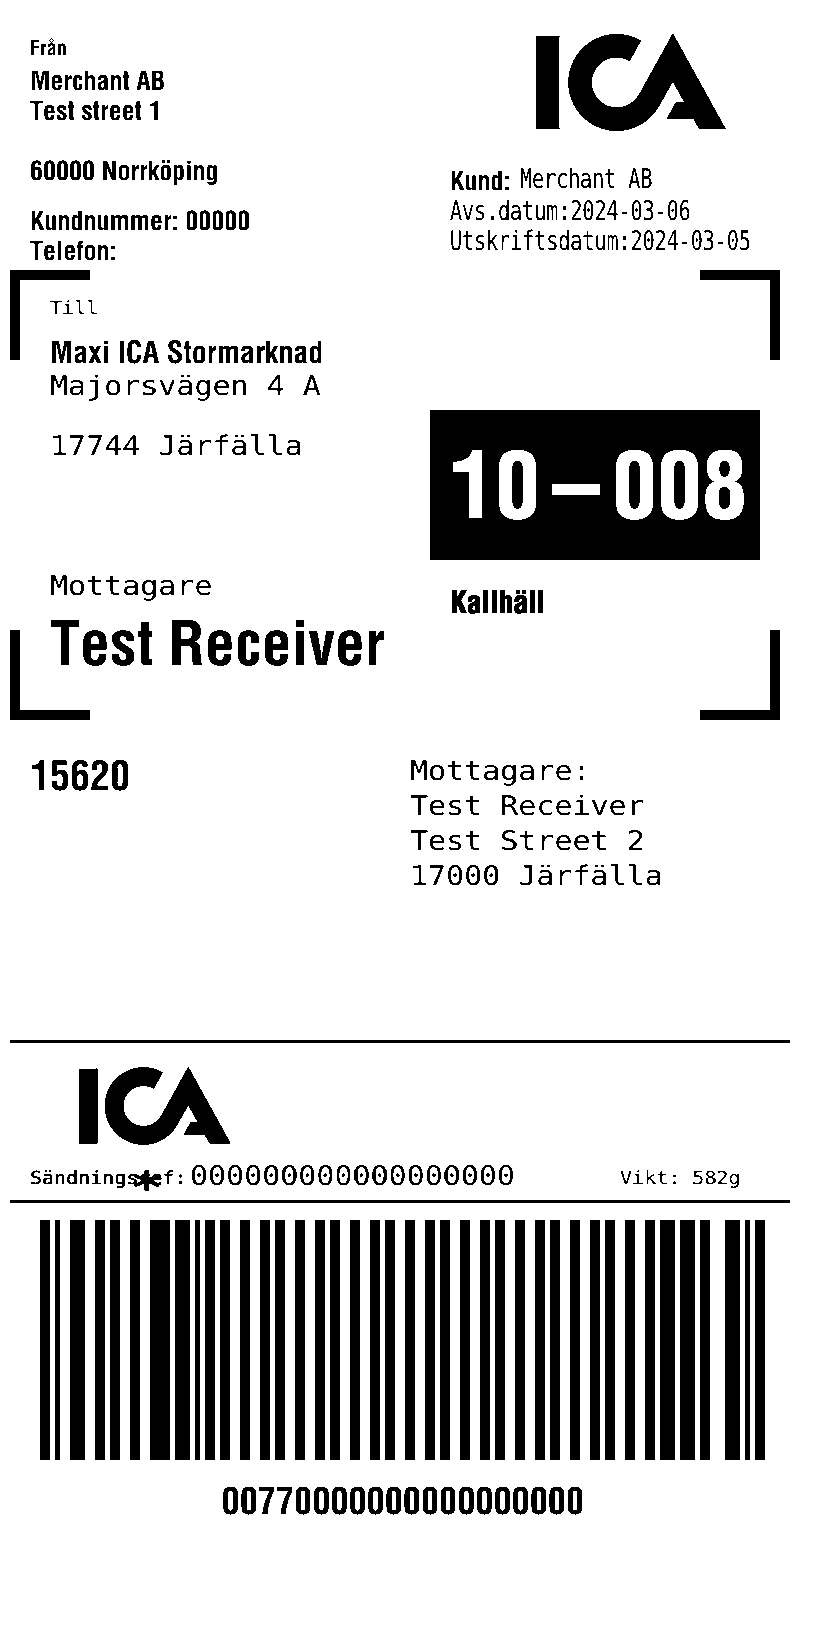
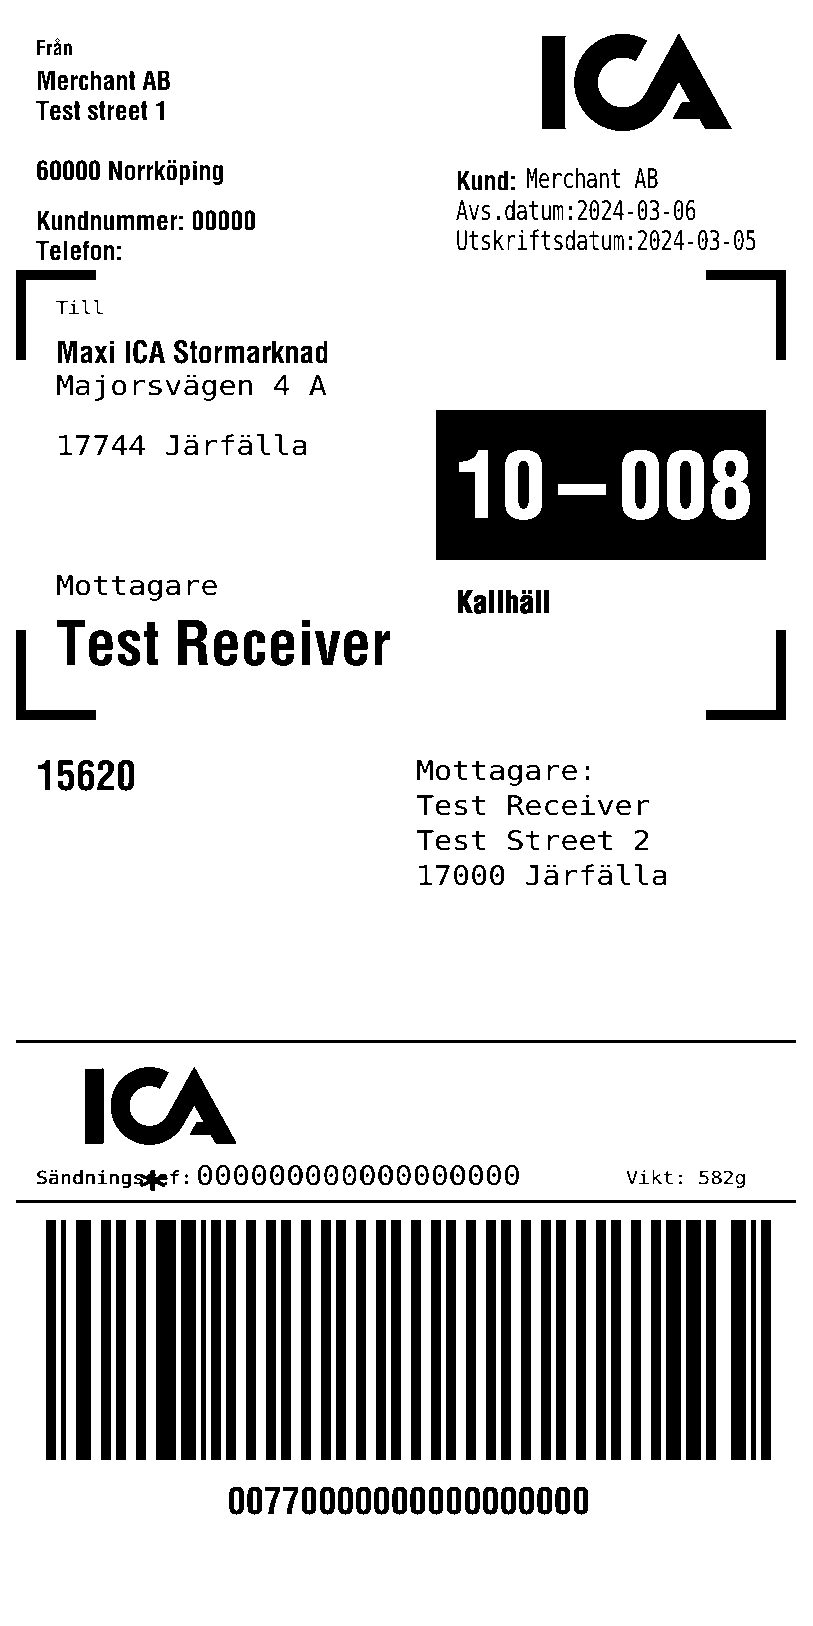
Adjust barcodes typeset position + use total bytes instead of data bytes

diff --git a/drawer.go b/drawer.go
@@ -46,10 +46,15 @@ func (d *Drawer) DrawLabelAsPng(label elements.LabelInfo, output io.Writer, opti
 	heightMm := options.LabelHeightMm
 	dpmm := options.Dpmm
 
-	imageWidth := math.Ceil(widthMm * float64(dpmm))
-	imageHeight := math.Ceil(heightMm * float64(dpmm))
+	labelWidth := int(math.Ceil(widthMm * float64(dpmm)))
+	imageWidth := labelWidth
+	if label.PrintWidth > 0 {
+		imageWidth = min(labelWidth, label.PrintWidth)
+	}
 
-	gCtx := gg.NewContext(int(imageWidth), int(imageHeight))
+	imageHeight := int(math.Ceil(heightMm * float64(dpmm)))
+
+	gCtx := gg.NewContext(imageWidth, imageHeight)
 	gCtx.SetColor(images.ColorWhite)
 	gCtx.Clear()
 
@@ -62,7 +67,7 @@ func (d *Drawer) DrawLabelAsPng(label elements.LabelInfo, output io.Writer, opti
 
 		gCtx2 := gCtx
 		if reversePrint {
-			gCtx2 = gg.NewContext(int(imageWidth), int(imageHeight))
+			gCtx2 = gg.NewContext(imageWidth, imageHeight)
 		}
 
 		for _, drawer := range d.elementDrawers {
@@ -77,6 +82,18 @@ func (d *Drawer) DrawLabelAsPng(label elements.LabelInfo, output io.Writer, opti
 				return err
 			}
 		}
+	}
+
+	// If print width was less than label width
+	// Draw everything onto the new, wider image and center the content
+	if imageWidth != labelWidth {
+		imgCtx := gCtx
+		gCtx = gg.NewContext(labelWidth, imageHeight)
+		gCtx.SetColor(images.ColorWhite)
+		gCtx.Clear()
+
+		img := imgCtx.Image()
+		gCtx.DrawImage(img, (labelWidth-imageWidth)/2, 0)
 	}
 
 	return images.EncodeMonochrome(output, gCtx.Image())

diff --git a/drawers/element_drawer.go b/drawers/element_drawer.go
@@ -12,6 +12,33 @@ type ElementDrawer struct {
 	Draw func(gCtx *gg.Context, element interface{}, options DrawerOptions, state *DrawerState) error
 }
 
+func adjustImageTypeSetPosition(img image.Image, pos elements.LabelPosition, ori elements.FieldOrientation) elements.LabelPosition {
+	if !pos.CalculateFromBottom {
+		return pos
+	}
+
+	width := img.Bounds().Dx()
+	height := img.Bounds().Dy()
+
+	x := pos.X
+	y := pos.Y
+
+	switch ori {
+	case elements.FieldOrientationNormal:
+		y = max(y-height, 0)
+	case elements.FieldOrientation180:
+		x -= width
+	case elements.FieldOrientation270:
+		x = max(x-height, 0)
+		y -= width
+	}
+
+	return elements.LabelPosition{
+		X: x,
+		Y: y,
+	}
+}
+
 func rotateImage(gCtx *gg.Context, img image.Image, pos elements.LabelPosition, ori elements.FieldOrientation) {
 	width := float64(img.Bounds().Dx())
 	height := float64(img.Bounds().Dy())

diff --git a/drawers/barcode_39.go b/drawers/barcode_39.go
@@ -36,17 +36,17 @@ func NewBarcode39Drawer() *ElementDrawer {
 			}
 
 			img = images.NewScaled(img, barcode.Width, barcode.Height)
-
 			width := float64(img.Bounds().Dx())
 			height := float64(img.Bounds().Dy())
+			pos := adjustImageTypeSetPosition(img, barcode.Position, barcode.Orientation)
 
-			rotateImage(gCtx, img, barcode.Position, barcode.Orientation)
+			rotateImage(gCtx, img, pos, barcode.Orientation)
 
 			defer gCtx.Identity()
 
-			gCtx.DrawImage(img, barcode.Position.X, barcode.Position.Y)
+			gCtx.DrawImage(img, pos.X, pos.Y)
 			if barcode.Line {
-				applyLineTextToCtx(gCtx, text, barcode.Position, barcode.LineAbove, width, height)
+				applyLineTextToCtx(gCtx, text, pos, barcode.LineAbove, width, height)
 			}
 
 			return nil

diff --git a/drawers/barcode_128.go b/drawers/barcode_128.go
@@ -65,14 +65,15 @@ func NewBarcode128Drawer() *ElementDrawer {
 
 			width := float64(img.Bounds().Dx())
 			height := float64(img.Bounds().Dy())
+			pos := adjustImageTypeSetPosition(img, barcode.Position, barcode.Orientation)
 
-			rotateImage(gCtx, img, barcode.Position, barcode.Orientation)
+			rotateImage(gCtx, img, pos, barcode.Orientation)
 
 			defer gCtx.Identity()
 
-			gCtx.DrawImage(img, barcode.Position.X, barcode.Position.Y)
+			gCtx.DrawImage(img, pos.X, pos.Y)
 			if barcode.Line {
-				applyLineTextToCtx(gCtx, text, barcode.Position, barcode.LineAbove, width, height)
+				applyLineTextToCtx(gCtx, text, pos, barcode.LineAbove, width, height)
 			}
 
 			return nil

diff --git a/drawers/barcode_datamatrix.go b/drawers/barcode_datamatrix.go
@@ -58,12 +58,13 @@ func NewBarcodeDatamatrixDrawer() *ElementDrawer {
 
 			scale := max(barcode.Height, 1)
 			scaledImg := images.NewScaled(img, scale, scale)
+			pos := adjustImageTypeSetPosition(scaledImg, barcode.Position, barcode.Orientation)
 
-			rotateImage(gCtx, scaledImg, barcode.Position, barcode.Orientation)
+			rotateImage(gCtx, scaledImg, pos, barcode.Orientation)
 
 			defer gCtx.Identity()
 
-			gCtx.DrawImage(scaledImg, barcode.Position.X, barcode.Position.Y)
+			gCtx.DrawImage(scaledImg, pos.X, pos.Y)
 
 			return nil
 		},

diff --git a/parser.go b/parser.go
@@ -47,6 +47,7 @@ func NewParser() *Parser {
 			parsers.NewDownloadGraphicsParser(),
 			parsers.NewRecallGraphicsParser(),
 			parsers.NewBarcodeFieldDefaults(),
+			parsers.NewPrintWidthParser(),
 		},
 	}
 }
@@ -73,6 +74,7 @@ func (p *Parser) Parse(zplData []byte) ([]elements.LabelInfo, error) {
 			if len(resultElements) > 0 {
 				results = append(results, elements.LabelInfo{
 					DownloadFormatName: p.printer.NextDownloadFormatName,
+					PrintWidth:         p.printer.PrintWidth,
 					Elements:           resultElements,
 				})
 			}

diff --git a/parsers/print_width.go b/parsers/print_width.go
@@ -1,0 +1,26 @@
+package parsers
+
+import (
+	"strconv"
+
+	"github.com/ingridhq/zebrash/printers"
+)
+
+func NewPrintWidthParser() *CommandParser {
+	const code = "^PW"
+
+	return &CommandParser{
+		CommandCode: code,
+		Parse: func(command string, printer *printers.VirtualPrinter) (interface{}, error) {
+			parts := splitCommand(command, code, 0)
+
+			if len(parts) > 0 {
+				if v, err := strconv.Atoi(parts[0]); err == nil {
+					printer.PrintWidth = max(v, 2)
+				}
+			}
+
+			return nil, nil
+		},
+	}
+}

diff --git a/drawers/barcode_pdf417.go b/drawers/barcode_pdf417.go
@@ -21,11 +21,13 @@ func NewBarcodePdf417Drawer() *ElementDrawer {
 				return fmt.Errorf("failed to encode pdf417 barcode: %w", err)
 			}
 
-			rotateImage(gCtx, img, barcode.Position, barcode.Orientation)
+			pos := adjustImageTypeSetPosition(img, barcode.Position, barcode.Orientation)
+
+			rotateImage(gCtx, img, pos, barcode.Orientation)
 
 			defer gCtx.Identity()
 
-			gCtx.DrawImage(img, barcode.Position.X, barcode.Position.Y)
+			gCtx.DrawImage(img, pos.X, pos.Y)
 
 			return nil
 		},

diff --git a/drawers/barcode_aztec.go b/drawers/barcode_aztec.go
@@ -37,11 +37,13 @@ func NewBarcodeAztecDrawer() *ElementDrawer {
 				return fmt.Errorf("failed to encode aztec barcode: %w", err)
 			}
 
-			rotateImage(gCtx, img, barcode.Position, barcode.Orientation)
+			pos := adjustImageTypeSetPosition(img, barcode.Position, barcode.Orientation)
+
+			rotateImage(gCtx, img, pos, barcode.Orientation)
 
 			defer gCtx.Identity()
 
-			gCtx.DrawImage(img, barcode.Position.X, barcode.Position.Y)
+			gCtx.DrawImage(img, pos.X, pos.Y)
 
 			return nil
 		},

diff --git a/drawers/barcode_qr.go b/drawers/barcode_qr.go
@@ -35,8 +35,9 @@ func NewBarcodeQrDrawer() *ElementDrawer {
 			}
 
 			scaledImg := images.NewScaled(img, barcode.Magnification, barcode.Magnification)
+			pos := adjustImageTypeSetPosition(scaledImg, barcode.Position, elements.FieldOrientationNormal)
 
-			gCtx.DrawImage(scaledImg, barcode.Position.X, barcode.Position.Y)
+			gCtx.DrawImage(scaledImg, pos.X, pos.Y)
 
 			return nil
 		},

diff --git a/drawers/maxicode.go b/drawers/maxicode.go
@@ -27,8 +27,9 @@ func NewMaxicodeDrawer() *ElementDrawer {
 			}
 
 			img := grid.Draw(float64(options.Dpmm)).Image()
+			pos := adjustImageTypeSetPosition(img, barcode.Position, elements.FieldOrientationNormal)
 
-			gCtx.DrawImage(img, barcode.Position.X, barcode.Position.Y)
+			gCtx.DrawImage(img, pos.X, pos.Y)
 
 			return nil
 		},

diff --git a/drawers/graphic_field.go b/drawers/graphic_field.go
@@ -17,8 +17,8 @@ func NewGraphicFieldDrawer() *ElementDrawer {
 			}
 
 			dataLen := len(field.Data)
-			if field.DataBytes > 0 {
-				dataLen = min(field.DataBytes, dataLen)
+			if field.TotalBytes > 0 {
+				dataLen = min(field.TotalBytes, dataLen)
 			}
 
 			width := field.RowBytes * 8
